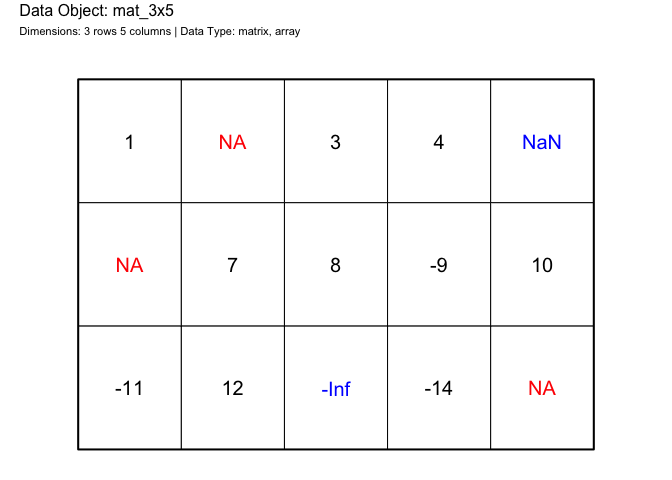
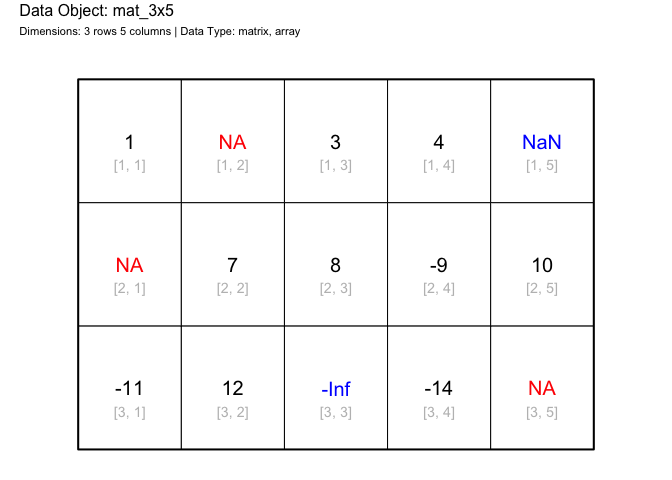
README tweaks

diff --git a/README.md b/README.md
@@ -62,25 +62,22 @@ draw_matrix(mat_3x5)
 <img src="man/figures/README-base-example-1.png" width="100%" />
 
 ``` r
-# Disable showing the cell indices
-draw_matrix(mat_3x5, show_cell_indices = FALSE)
+# Show the cell indices
+draw_matrix(mat_3x5, show_cell_indices = TRUE)
 ```
 
 <img src="man/figures/README-base-example-2.png" width="100%" />
 
 ``` r
-# Disable showing any indices
-draw_matrix(
-  mat_3x5, 
-  show_row_indices = TRUE, show_column_indices = TRUE,
-  show_cell_indices = FALSE)
+# Show the row and column indices
+draw_matrix(mat_3x5, show_row_indices = TRUE, show_column_indices = TRUE)
 ```
 
 <img src="man/figures/README-base-example-3.png" width="100%" />
 
 ``` r
 # Highlight cells over a specific value
-draw_matrix(mat_3x5, highlight_cells = mat_3x5 > 4)
+draw_matrix(mat_3x5, highlight_area = mat_3x5 > 4)
 ```
 
 <img src="man/figures/README-base-example-4.png" width="100%" />
@@ -95,9 +92,8 @@ gdraw_matrix(mat_3x5)
 <img src="man/figures/README-ggplot2-example-1.png" width="100%" />
 
 ``` r
-
-# Highlight cells over a specific value
-gdraw_matrix(mat_3x5, highlight_cells = mat_3x5 > 4)
+# Highlight cells in specific columns
+gdraw_matrix(mat_3x5, highlight_area = highlight_columns(mat_3x5, columns = 2:4))
 ```
 
 <img src="man/figures/README-ggplot2-example-2.png" width="100%" />
